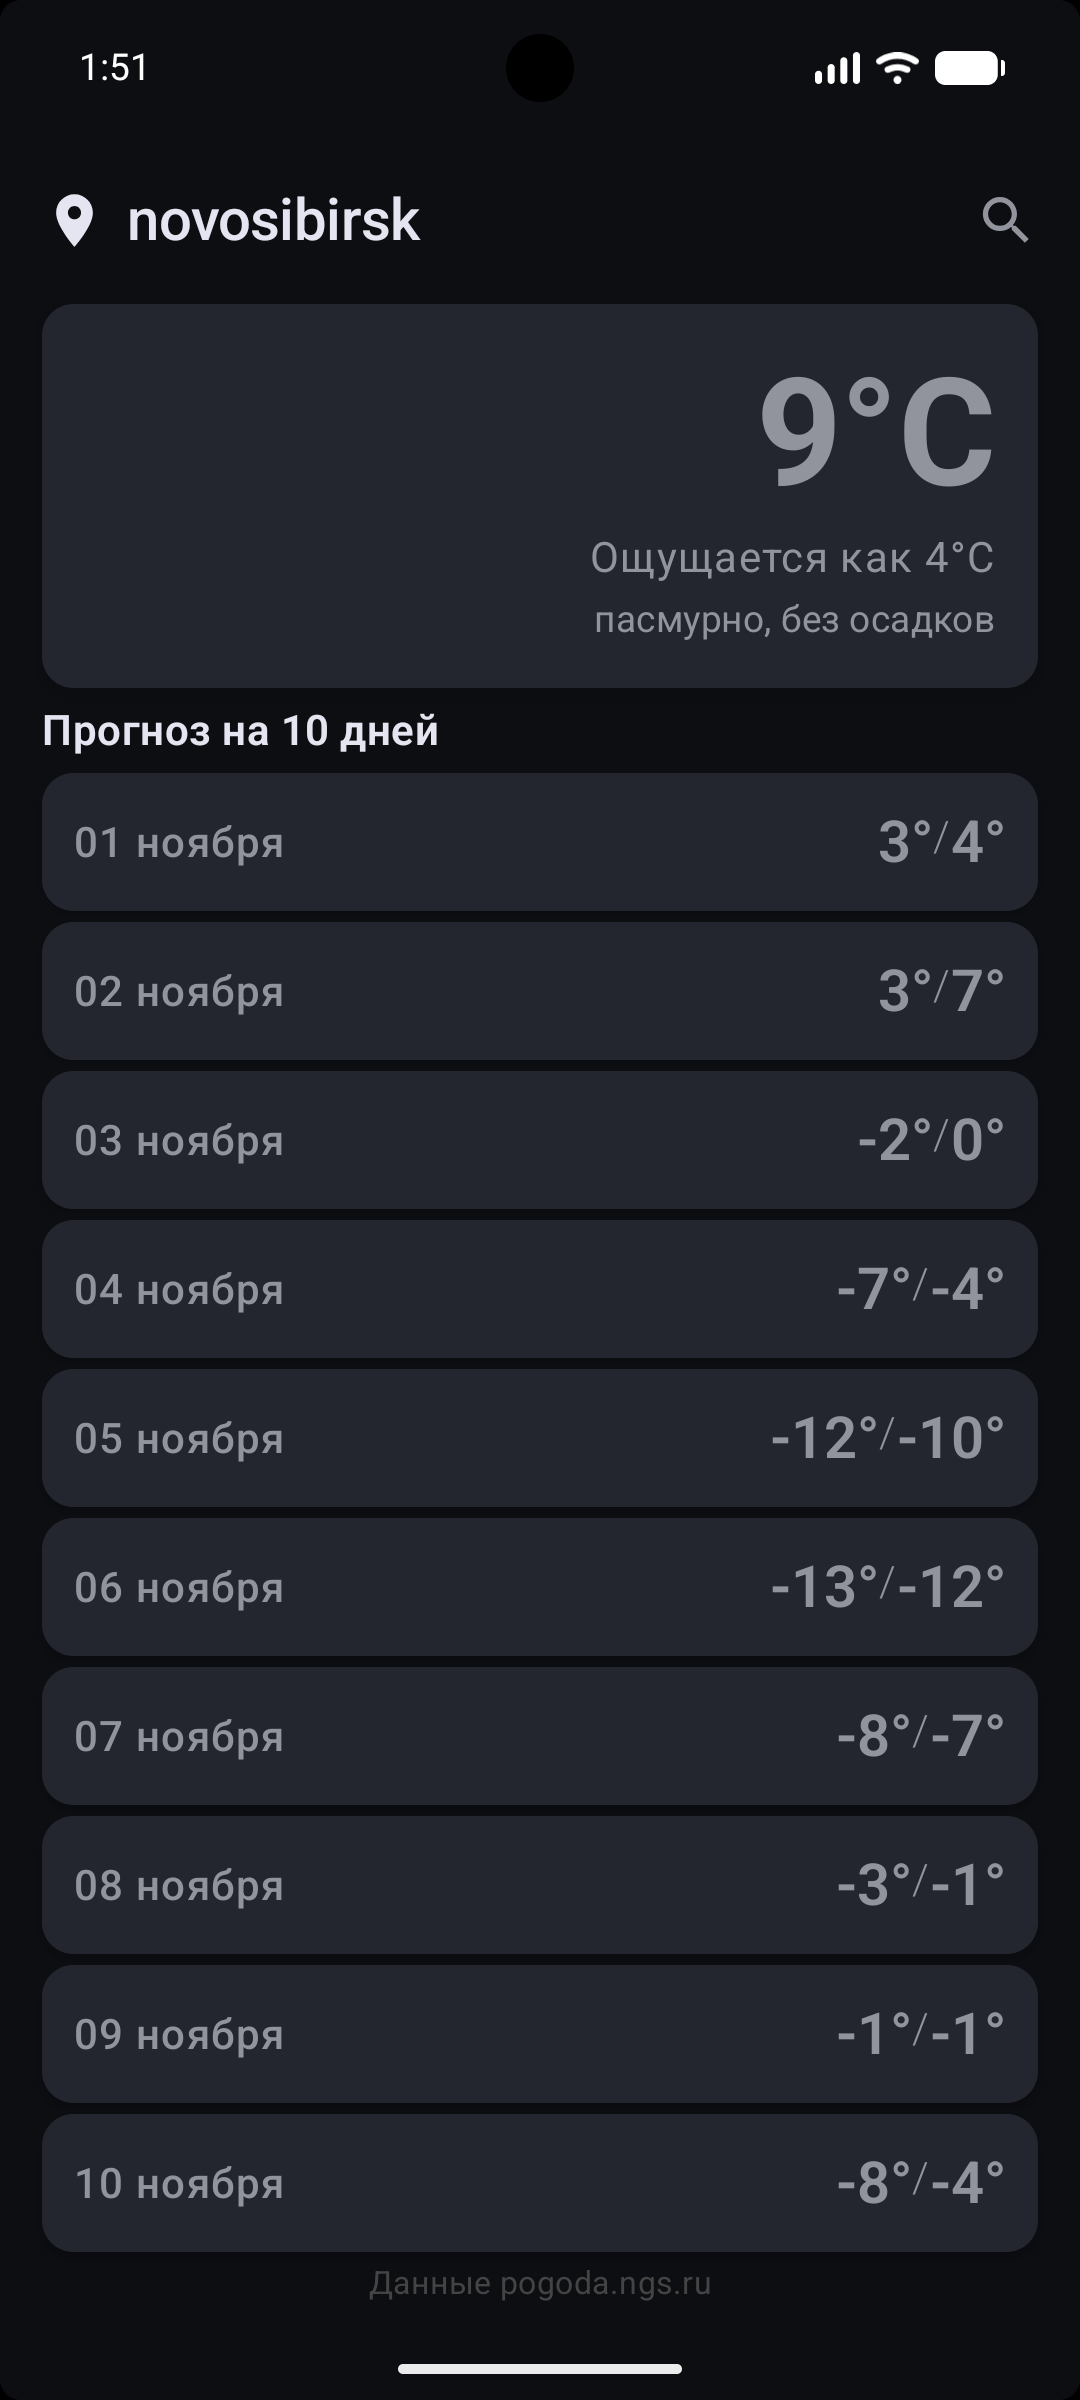
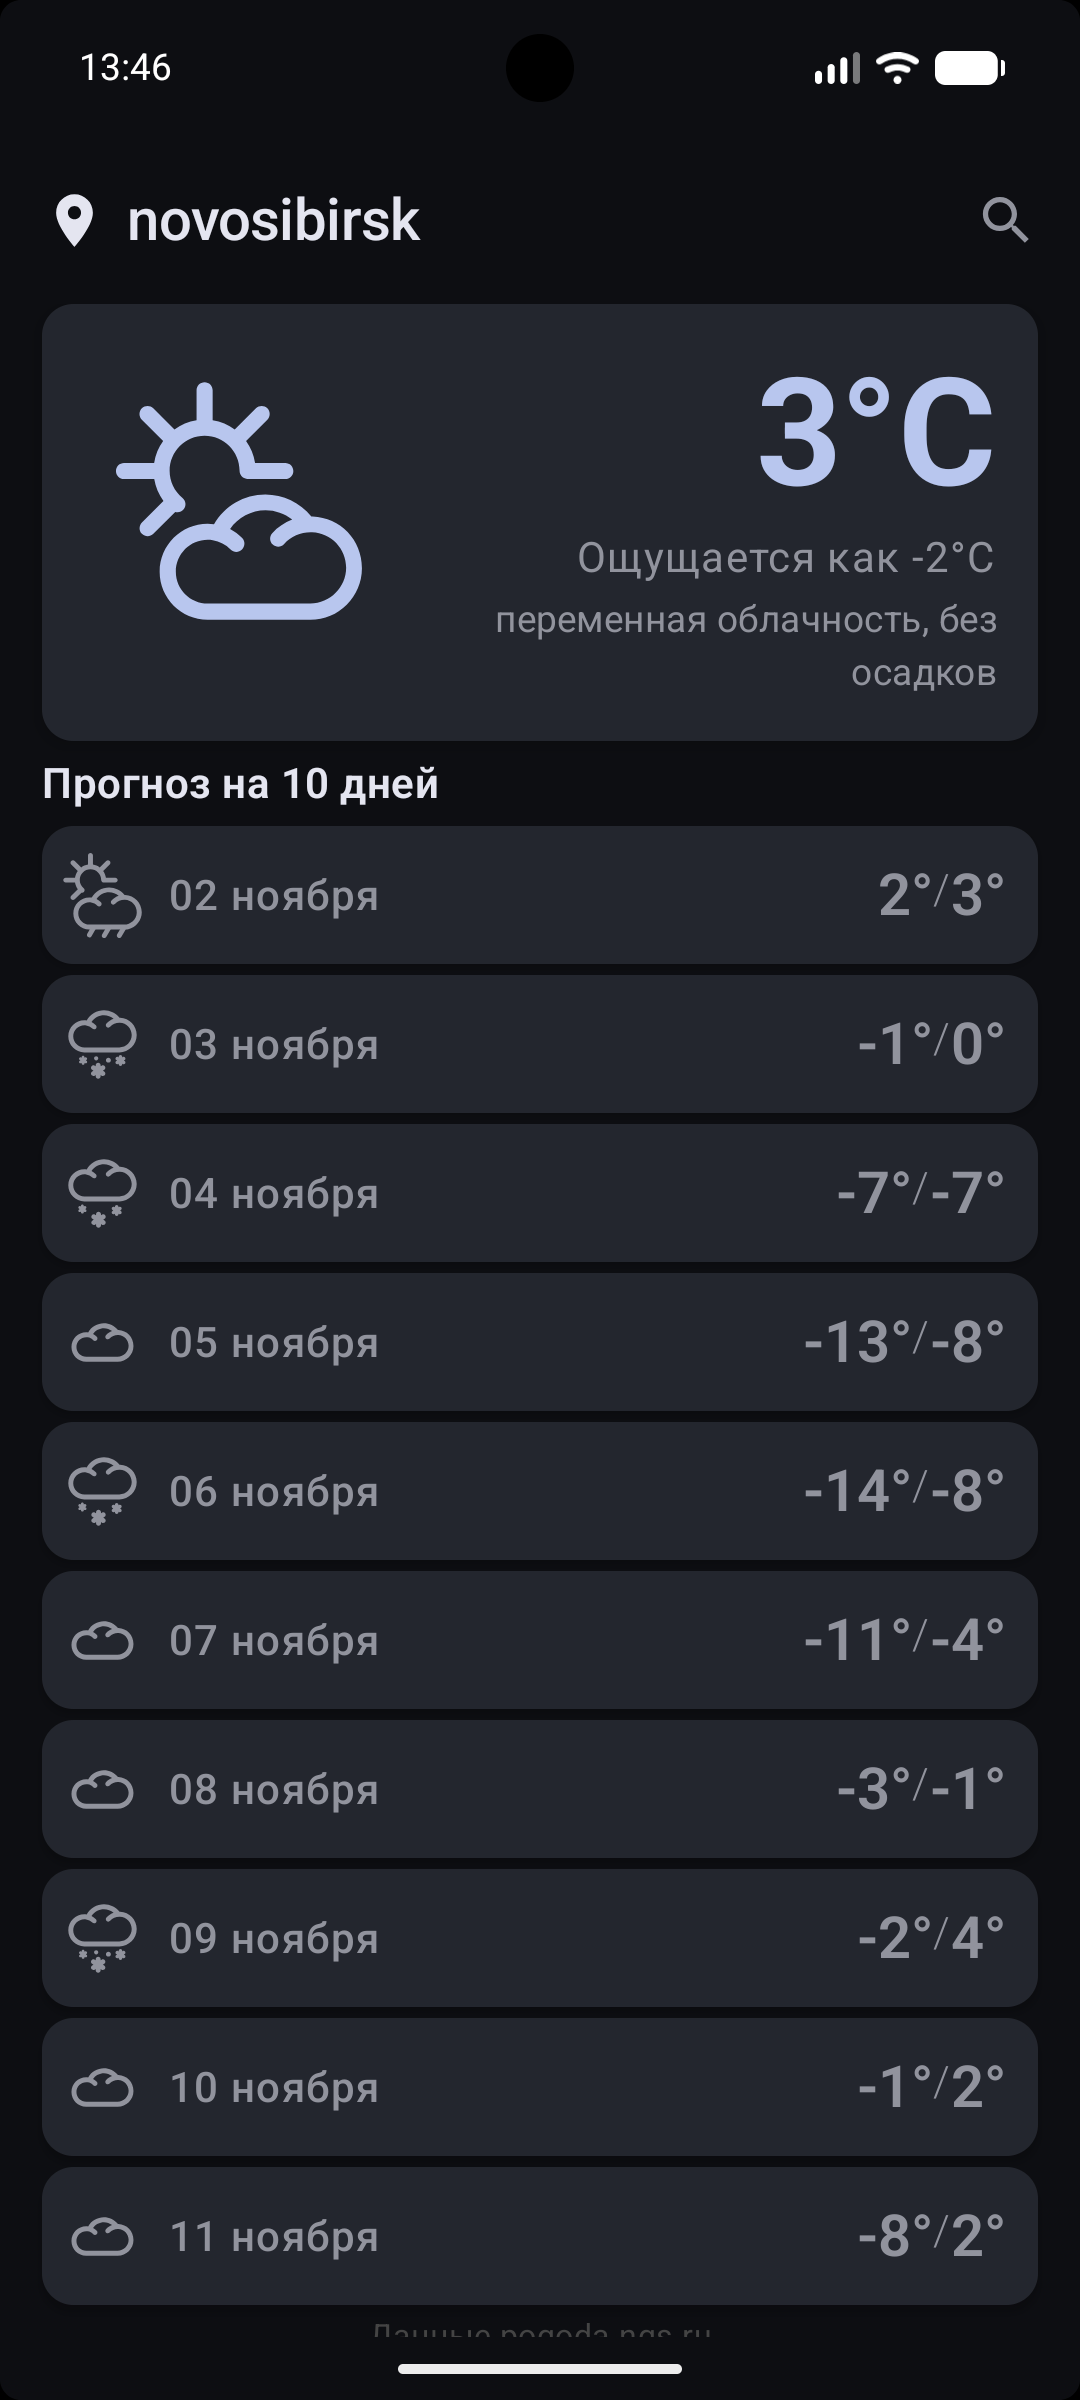
Added WeatherIcon in DailyForecastCard

Changed region(s): [[0.0306, 0.1562, 0.9778, 0.9688], [0.0917, 0.0, 0.1528, 0.0312]]

diff --git a/app/src/main/java/com/pets/weatherapp/presentation/screens/DailyForecastCard.kt b/app/src/main/java/com/pets/weatherapp/presentation/screens/DailyForecastCard.kt
@@ -4,14 +4,19 @@ import androidx.compose.foundation.clickable
 import androidx.compose.foundation.layout.Arrangement
 import androidx.compose.foundation.layout.Row
 import androidx.compose.foundation.layout.fillMaxWidth
+import androidx.compose.foundation.layout.offset
 import androidx.compose.foundation.layout.padding
+import androidx.compose.foundation.layout.size
 import androidx.compose.material3.Card
 import androidx.compose.material3.CardDefaults
+import androidx.compose.material3.Icon
 import androidx.compose.material3.MaterialTheme
 import androidx.compose.material3.Text
 import androidx.compose.runtime.Composable
 import androidx.compose.ui.Alignment
 import androidx.compose.ui.Modifier
+import androidx.compose.ui.graphics.vector.ImageVector
+import androidx.compose.ui.res.vectorResource
 import androidx.compose.ui.text.font.FontWeight
 import androidx.compose.ui.unit.dp
 import com.pets.weatherapp.data.model.DailyForecastUiModel
@@ -30,39 +35,51 @@ fun DailyForecastCard(
             .clickable(onClick = onClick)
     ) {
         Row(
-            modifier = Modifier.padding(12.dp),
             verticalAlignment = Alignment.CenterVertically
         ) {
+            Icon(
+                imageVector = ImageVector.vectorResource(forecast.iconId),
+                contentDescription = "Weather image",
+                modifier = modifier
+                    .size(36.dp)
+                    .offset(x = 5.dp),
+                tint = MaterialTheme.colorScheme.onSurfaceVariant
+            )
             Row(
-                modifier = Modifier.weight(1f)
+                modifier = Modifier.padding(12.dp),
+                verticalAlignment = Alignment.CenterVertically
             ) {
-                Text(
-                    text = forecast.date,
-                    style = MaterialTheme.typography.bodyLarge,
-                    fontWeight = FontWeight.Medium
-                )
-            }
+                Row(
+                    modifier = Modifier.weight(1f)
+                ) {
+                    Text(
+                        text = forecast.date,
+                        style = MaterialTheme.typography.bodyLarge,
+                        fontWeight = FontWeight.Medium
+                    )
+                }
 
-            Row(
-                horizontalArrangement = Arrangement.End
-            ) {
-                Text(
-                    text = "${forecast.minTemperature}°",
-                    style = MaterialTheme.typography.titleLarge,
-                    fontWeight = FontWeight.SemiBold
-                )
-                Text(
-                    text = "/",
-                    style = MaterialTheme.typography.titleMedium,
-                    fontWeight = FontWeight.Light,
-                    color = MaterialTheme.colorScheme.onSurfaceVariant
-                )
-                Text(
-                    text = "${forecast.maxTemperature}°",
-                    style = MaterialTheme.typography.titleLarge,
-                    fontWeight = FontWeight.SemiBold
-                )
+                Row(
+                    horizontalArrangement = Arrangement.End
+                ) {
+                    Text(
+                        text = "${forecast.minTemperature}°",
+                        style = MaterialTheme.typography.titleLarge,
+                        fontWeight = FontWeight.SemiBold
+                    )
+                    Text(
+                        text = "/",
+                        style = MaterialTheme.typography.titleMedium,
+                        fontWeight = FontWeight.Light,
+                        color = MaterialTheme.colorScheme.onSurfaceVariant
+                    )
+                    Text(
+                        text = "${forecast.maxTemperature}°",
+                        style = MaterialTheme.typography.titleLarge,
+                        fontWeight = FontWeight.SemiBold
+                    )
 
+                }
             }
         }
     }

diff --git a/app/src/main/java/com/pets/weatherapp/domain/mapper/ForecastModelMapper.kt b/app/src/main/java/com/pets/weatherapp/domain/mapper/ForecastModelMapper.kt
@@ -4,6 +4,7 @@ import com.pets.weatherapp.data.model.CurrentForecastResponse
 import com.pets.weatherapp.data.model.DailyForecastsResponse
 import com.pets.weatherapp.data.model.CurrentForecastUiModel
 import com.pets.weatherapp.data.model.DailyForecastUiModel
+import com.pets.weatherapp.presentation.screens.util.getWeatherIconRes
 import java.time.ZoneId
 import java.time.format.DateTimeFormatter
 import java.util.Locale
@@ -27,7 +28,7 @@ class ForecastModelMapper {
                 humidity = forecast.humidity,
                 cloud = forecast.cloud.title,
                 precipitation = forecast.precipitation.title,
-                icon = forecast.iconName
+                iconId = getWeatherIconRes(forecast.iconName)
             )
     }
 
@@ -37,7 +38,8 @@ class ForecastModelMapper {
             DailyForecastUiModel(
                 date = FORMATTER.format(it.date.atZone(ZoneId.systemDefault())),
                 minTemperature = it.hours[0].temperature.min,
-                maxTemperature = it.hours[2].temperature.max
+                maxTemperature = it.hours[2].temperature.max,
+                iconId = getWeatherIconRes(it.hours[2].icon),
             )
         }
     }

diff --git a/app/src/main/java/com/pets/weatherapp/presentation/screens/CurrentWeatherCard.kt b/app/src/main/java/com/pets/weatherapp/presentation/screens/CurrentWeatherCard.kt
@@ -21,7 +21,6 @@ import androidx.compose.ui.text.font.FontWeight
 import androidx.compose.ui.text.style.TextAlign
 import androidx.compose.ui.unit.dp
 import com.pets.weatherapp.data.model.CurrentForecastUiModel
-import com.pets.weatherapp.presentation.screens.util.getWeatherIconRes
 
 @Composable
 fun CurrentWeatherCard(
@@ -38,7 +37,7 @@ fun CurrentWeatherCard(
                 .align(Alignment.CenterHorizontally)
         ) {
             Icon(
-                imageVector = ImageVector.vectorResource(getWeatherIconRes(forecast.icon)),
+                imageVector = ImageVector.vectorResource(forecast.iconId),
                 contentDescription = "Weather image",
                 modifier = modifier
                     .size(150.dp)

diff --git a/app/src/main/java/com/pets/weatherapp/data/model/DailyForecastUiModel.kt b/app/src/main/java/com/pets/weatherapp/data/model/DailyForecastUiModel.kt
@@ -8,5 +8,6 @@ data class DailyForecastUiModel(
     val avgTemperature: Int = 0,
     val humidity: Int = 0,
     val cloud: String = "",
-    val precipitation: String = ""
+    val precipitation: String = "",
+    val iconId: Int = 0
 )

diff --git a/app/src/main/java/com/pets/weatherapp/data/model/CurrentForecastUiModel.kt b/app/src/main/java/com/pets/weatherapp/data/model/CurrentForecastUiModel.kt
@@ -9,5 +9,5 @@ data class CurrentForecastUiModel(
     val humidity: Int = 0,
     val cloud: String = "",
     val precipitation: String = "",
-    val icon: String = ""
+    val iconId: Int = 0
 )
